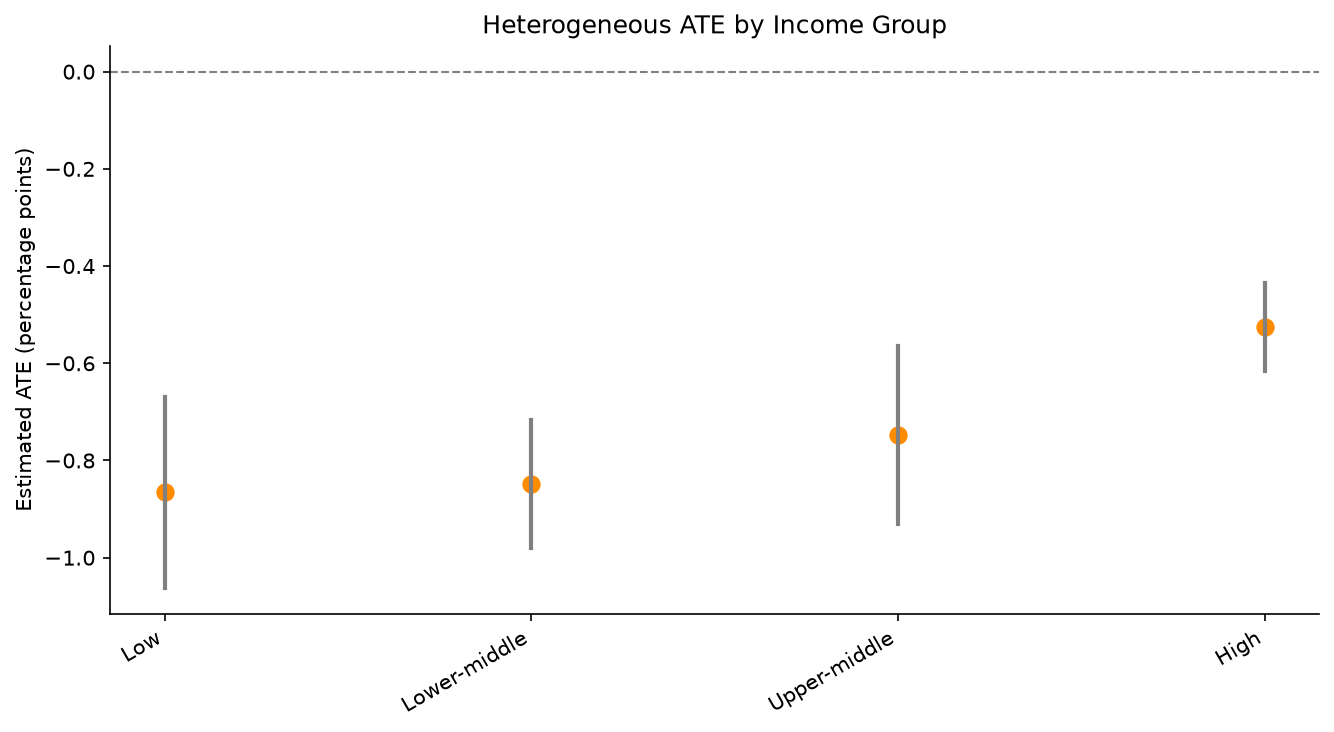
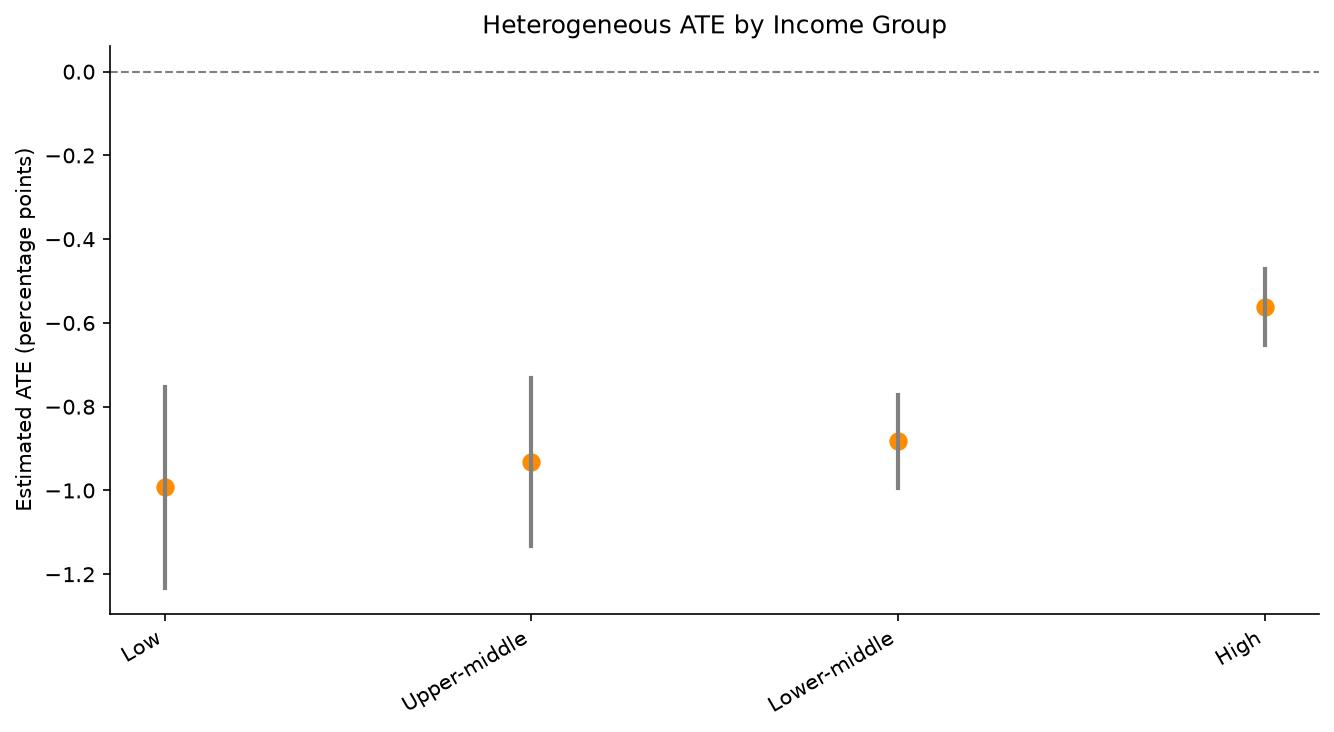
Add Causal Forest for HTE and reframe as Target Trial Emulation

diff --git a/src/causal_model.py b/src/causal_model.py
@@ -1,6 +1,10 @@
 """
-Double Machine Learning estimation for the effect of public health financing
-on out-of-pocket expenditure.
+Causal estimation for the effect of public health financing on out-of-pocket expenditure.
+
+Implements:
+- Double Machine Learning (partially linear model)
+- Simple stratified heterogeneity
+- Causal Forest style heterogeneous treatment effects (via econml)
 """
 
 from typing import Dict, List, Optional, Tuple
@@ -9,10 +13,9 @@ import numpy as np
 import pandas as pd
 from sklearn.ensemble import RandomForestRegressor
 from sklearn.linear_model import LassoCV
-from sklearn.model_selection import KFold
+
 
 try:
-    from doubleml import DoubleMLData, DoubleMLPLR
     from doubleml import DoubleMLData, DoubleMLPLR
 except ImportError:
     raise ImportError(
@@ -76,27 +79,10 @@ def run_doubleml_plr(
     n_folds: int = 5,
     n_rep: int = 1,
     random_state: int = 42,
-) -> Tuple[DoubleMLPLR, Dict]:
+) -> Tuple:
     """
     Estimate the average treatment effect using DoubleML Partially Linear Regression.
-
-    Parameters
-    ----------
-    data : analysis sample
-    treatment : name of treatment column
-    outcome : name of outcome column
-    confounders : list of confounder column names
-    learner_name : which ML model to use for nuisance functions
-    n_folds : number of cross-fitting folds
-    n_rep : number of repetitions (for stability)
-    random_state : seed
-
-    Returns
-    -------
-    dml_model : fitted DoubleMLPLR object
-    summary : dictionary with key results
     """
-    # Prepare DoubleML data object
     dml_data = DoubleMLData(
         data=data,
         y_col=outcome,
@@ -104,11 +90,9 @@ def run_doubleml_plr(
         x_cols=confounders,
     )
 
-    # Learners for outcome and treatment models
-    ml_l = make_learner(learner_name, random_state)   # E[Y|X]
-    ml_m = make_learner(learner_name, random_state)   # E[D|X]
+    ml_l = make_learner(learner_name, random_state)
+    ml_m = make_learner(learner_name, random_state)
 
-    # Partially Linear Regression model
     dml_plr = DoubleMLPLR(
         obj_dml_data=dml_data,
         ml_l=ml_l,
@@ -122,7 +106,6 @@ def run_doubleml_plr(
           f"({n_folds}-fold cross-fitting) ...")
     dml_plr.fit()
 
-    # Extract summary
     coef = dml_plr.coef[0]
     se = dml_plr.se[0]
     pval = dml_plr.pval[0]
@@ -156,9 +139,7 @@ def run_multiple_learners(
     confounders: List[str],
     learners: Optional[List[str]] = None,
 ) -> pd.DataFrame:
-    """
-    Run DoubleML with several different learners for robustness checks.
-    """
+    """Run DoubleML with several different learners for robustness checks."""
     if learners is None:
         learners = ["xgboost", "lightgbm", "rf"]
 
@@ -187,10 +168,7 @@ def heterogeneous_effects_by_group(
     group_var: str = "income",
     learner_name: str = "xgboost",
 ) -> pd.DataFrame:
-    """
-    Estimate ATE separately within groups (e.g. income groups or regions)
-    as a simple form of heterogeneity analysis.
-    """
+    """Estimate ATE separately within groups (simple heterogeneity analysis)."""
     groups = data[group_var].dropna().unique()
     results = []
 
@@ -216,3 +194,62 @@ def heterogeneous_effects_by_group(
             print(f"Failed for group {g}: {e}")
 
     return pd.DataFrame(results)
+
+
+def run_causal_forest(
+    data: pd.DataFrame,
+    treatment: str,
+    outcome: str,
+    confounders: List[str],
+    n_estimators: int = 500,
+    random_state: int = 42,
+) -> Dict:
+    """
+    Estimate heterogeneous treatment effects using a Causal Forest
+    (via econml.grf.CausalForest).
+
+    Returns a dictionary with the fitted model and summary statistics
+    of the estimated individual treatment effects.
+    """
+    try:
+        from econml.grf import CausalForest
+    except ImportError:
+        raise ImportError(
+            "econml is required for Causal Forest. Install with: pip install econml"
+        )
+
+    print("\nFitting Causal Forest for heterogeneous treatment effects ...")
+
+    Y = data[outcome].values
+    T = data[treatment].values
+    X = data[confounders].values
+
+    cf = CausalForest(
+        n_estimators=n_estimators,
+        min_samples_leaf=20,
+        max_depth=None,
+        random_state=random_state,
+        n_jobs=-1,
+    )
+    cf.fit(X=X, T=T, y=Y)
+
+    # Estimated individual treatment effects
+    ite = cf.predict(X).flatten()
+
+    summary = {
+        "mean_ite": float(np.mean(ite)),
+        "median_ite": float(np.median(ite)),
+        "std_ite": float(np.std(ite)),
+        "min_ite": float(np.min(ite)),
+        "max_ite": float(np.max(ite)),
+        "n_obs": len(ite),
+        "method": "CausalForest (econml.grf)",
+    }
+
+    print("=== Causal Forest Summary (Individual Treatment Effects) ===")
+    print(f"Mean ITE:    {summary['mean_ite']:.4f}")
+    print(f"Median ITE:  {summary['median_ite']:.4f}")
+    print(f"Std ITE:     {summary['std_ite']:.4f}")
+    print(f"Range:       [{summary['min_ite']:.4f}, {summary['max_ite']:.4f}]")
+
+    return {"model": cf, "ite": ite, "summary": summary}

diff --git a/scripts/run_doubleml.py b/scripts/run_doubleml.py
@@ -1,17 +1,17 @@
 #!/usr/bin/env python
 """
-Main script: Double Machine Learning analysis of public health financing
-effects on out-of-pocket expenditure using WHO GHED data.
+Main script: Causal analysis of public health financing effects on 
+out-of-pocket expenditure using WHO GHED data.
 
-Usage
------
-python scripts/run_doubleml.py
+Includes:
+- Double Machine Learning (ATE)
+- Stratified heterogeneity
+- Causal Forest (individual treatment effects)
 """
 
 import sys
 from pathlib import Path
 
-# Add project root to path
 PROJECT_ROOT = Path(__file__).resolve().parents[1]
 sys.path.insert(0, str(PROJECT_ROOT))
 
@@ -25,8 +25,10 @@ from src.causal_model import (
     run_doubleml_plr,
     run_multiple_learners,
     heterogeneous_effects_by_group,
+    run_causal_forest,
 )
 from src.utils import save_summary_table, plot_ate_comparison, plot_heterogeneity
+import pandas as pd
 
 
 def main():
@@ -35,7 +37,6 @@ def main():
     # ------------------------------------------------------------------
     data_file = PROJECT_ROOT / "data" / "GHED_data.XLSX"
 
-    # Only load the columns we need (much faster for the large file)
     usecols = [
         "location", "code", "region", "income", "year",
         "gghed_che", "oops_che", "ext_che", "che_gdp",
@@ -49,7 +50,7 @@ def main():
     print(sample[[TREATMENT, OUTCOME] + feature_cols].describe().round(2))
 
     # ------------------------------------------------------------------
-    # 2. Main DoubleML estimation (XGBoost)
+    # 2. Main DoubleML estimation
     # ------------------------------------------------------------------
     print("\n" + "=" * 60)
     print("MAIN ANALYSIS: DoubleML with XGBoost")
@@ -77,7 +78,7 @@ def main():
         treatment=TREATMENT,
         outcome=OUTCOME,
         confounders=feature_cols,
-        learners=["xgboost", "lightgbm", "rf"],
+        learners=["xgboost", "rf"],
     )
 
     # ------------------------------------------------------------------
@@ -97,16 +98,33 @@ def main():
     )
 
     # ------------------------------------------------------------------
-    # 5. Save results
+    # 5. Causal Forest
+    # ------------------------------------------------------------------
+    print("\n" + "=" * 60)
+    print("CAUSAL FOREST: Individual Treatment Effects")
+    print("=" * 60)
+
+    try:
+        cf_results = run_causal_forest(
+            data=sample,
+            treatment=TREATMENT,
+            outcome=OUTCOME,
+            confounders=feature_cols,
+            n_estimators=300,
+        )
+        cf_summary = pd.DataFrame([cf_results["summary"]])
+    except Exception as e:
+        print(f"Causal Forest failed: {e}")
+        cf_summary = pd.DataFrame()
+
+    # ------------------------------------------------------------------
+    # 6. Save results
     # ------------------------------------------------------------------
     results_dir = PROJECT_ROOT / "results"
     results_dir.mkdir(exist_ok=True)
 
-    # Main result
     pd_main = pd.DataFrame([main_summary])
     save_summary_table(pd_main, results_dir / "main_ate.csv")
-
-    # Robustness
     save_summary_table(robustness, results_dir / "robustness_learners.csv")
     plot_ate_comparison(
         robustness,
@@ -114,7 +132,6 @@ def main():
         save_path=results_dir / "ate_by_learner.png",
     )
 
-    # Heterogeneity
     if not het_income.empty:
         save_summary_table(het_income, results_dir / "heterogeneity_income.csv")
         plot_heterogeneity(
@@ -123,11 +140,13 @@ def main():
             save_path=results_dir / "ate_by_income.png",
         )
 
+    if not cf_summary.empty:
+        save_summary_table(cf_summary, results_dir / "causal_forest_summary.csv")
+
     print("\n" + "=" * 60)
     print("Analysis finished. Results saved in /results")
     print("=" * 60)
 
 
 if __name__ == "__main__":
-    import pandas as pd  # needed for the main block
     main()
